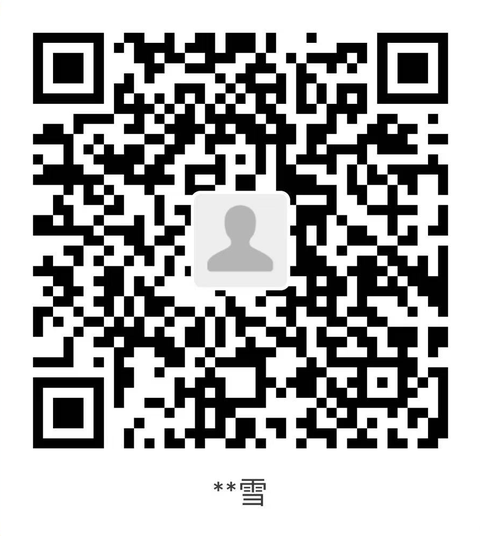
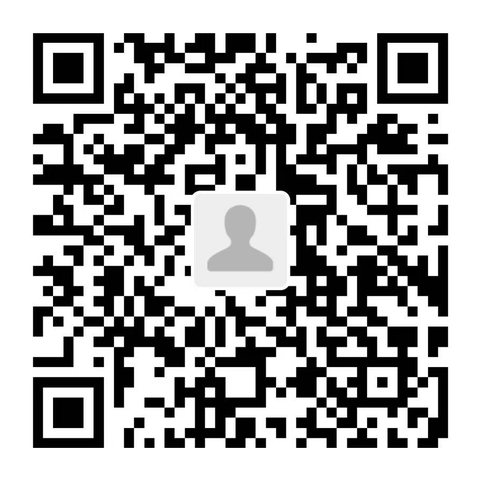
fix: 收款码裁成等边正方形（两张视觉尺寸一致 + 补足扫码静区）

diff --git a/tools/check_pay.js b/tools/check_pay.js
@@ -65,6 +65,18 @@ const ok = (cond, label, extra) => {
   console.log('  文件大小：', sizes.map((n, i) => srcs[i].split('/').pop() + '=' + Math.round(n / 1024) + 'KB').join(' '));
   ok(sizes.every(n => n > 8000), '图片不是占位空文件（>8KB）');
 
+  // 两张二维码图必须是同尺寸的等边正方形。
+  // 否则 img 的 CSS 宽度一样，二维码本体在视觉上却一个大一个小（踩过一次：
+  // 微信白卡留白比支付宝多，按白卡裁出来的图并排摆着明显不齐）。
+  const pngSize = f => {
+    const b = fs.readFileSync(path.join(ROOT, f));
+    return { w: b.readUInt32BE(16), h: b.readUInt32BE(20) };
+  };
+  const dims = srcs.map(pngSize);
+  console.log('  像素尺寸：', dims.map((d, i) => srcs[i].split('/').pop() + '=' + d.w + '×' + d.h).join(' '));
+  ok(dims.every(d => d.w === d.h), '两张码都是正方形');
+  ok(dims.every(d => d.w === dims[0].w), '两张码像素尺寸相同');
+
   // 结构：hero 有徽标和标题，两张卡各有一个品牌胶囊 + 桌面/手机两条提示
   ok(!!doc.querySelector('.pay-hero .pay-kicker'), 'hero 有「赞赏支持」徽标');
   ok((doc.querySelectorAll('.pay-box .pay-brand').length) === 2, '两张卡都有品牌色胶囊');

diff --git a/tools/crop_pay.py b/tools/crop_pay.py
@@ -13,7 +13,7 @@ import io
 import os
 import sys
 
-from PIL import Image
+from PIL import Image, ImageDraw
 
 SRC = {
     "wechat": r"D:\WeChatData\xwechat_files\wxid_hnyjetk72ryq22_e0f0\temp\RWTemp\2026-11\9e20f478899dc29eb19741386f9343c8\0135cfd17aea217a5b95b0833f3dc2f8.jpg",
@@ -71,6 +71,31 @@ def find_card(im):
     return x0 + pad, y0 + pad, x1 - pad, y1 - pad
 
 
+def dark_box(im, card, ratio=0.25):
+    """在白卡里找出「二维码本体」的外接矩形。
+
+    为什么要单独找：微信和支付宝导出的白卡留白比例不一样（微信的上下留白更宽，
+    底下还多一行昵称），按白卡裁的话两张 fig 显示成同样 250px 宽，二维码本体
+    却一个大一个小。按二维码本体对齐才能视觉一致。
+    昵称文字是深色但笔画只占那一行的 10% 左右，阈值取 0.25 就能滤掉
+    （取 0.15 时微信那行较长的昵称会被算进本体，导致高度多出 60px）。
+    """
+    x0, y0, x1, y1 = card
+    px = im.convert("L").load()
+    rows, cols = [], []
+    for y in range(y0, y1):
+        n = sum(1 for x in range(x0, x1, 2) if px[x, y] < 110)
+        rows.append(n / ((x1 - x0) / 2))
+    for x in range(x0, x1):
+        n = sum(1 for y in range(y0, y1, 2) if px[x, y] < 110)
+        cols.append(n / ((y1 - y0) / 2))
+    ys = [y0 + i for i, v in enumerate(rows) if v >= ratio]
+    xs = [x0 + i for i, v in enumerate(cols) if v >= ratio]
+    if not xs or not ys:
+        return card
+    return xs[0], ys[0], xs[-1] + 1, ys[-1] + 1
+
+
 def main():
     os.makedirs(OUT, exist_ok=True)
     for name, src in SRC.items():
@@ -78,18 +103,33 @@ def main():
             print("缺文件：", src)
             continue
         im = Image.open(src)
-        box = find_card(im)
-        card = im.crop(box).convert("RGB")
-        # 二维码要方正好扫；白卡本身带昵称文字，比正方形略高，保持原比例更自然
-        # 统一缩到宽 480，足够 2x 屏清晰，又不影响体积
-        cw, ch = card.size
-        if cw > 480:
-            card = card.resize((480, round(ch * 480 / cw)), Image.LANCZOS)
+        card = find_card(im)
+        bx0, by0, bx1, by1 = dark_box(im, card)
+
+        # 二维码本体之外的区域（底部的昵称文字）先涂白。
+        # 不涂的话，正方形往下多留的那几十像素静区会把昵称顶部切一条黑边进来，
+        # 在页面白底上看着像脏污。
+        clean = im.convert("RGB")
+        draw = ImageDraw.Draw(clean)
+        draw.rectangle([card[0], card[1], card[2], by0], fill=(255, 255, 255))
+        draw.rectangle([card[0], by1, card[2], card[3]], fill=(255, 255, 255))
+
+        # 以二维码本体为中心裁正方形，四周各留 11% 静区。
+        # QR 规范要求 4 个模块宽的静区：348px 宽的码约 45 模块 → 每模块 7.7px，
+        # 4 模块 = 31px，所以每边留白必须 > 31px，1.22 倍对应 38px，够。
+        side = max(bx1 - bx0, by1 - by0) * 1.22
+        side = min(side, card[2] - card[0], card[3] - card[1])
+        cx, cy = (bx0 + bx1) / 2, (by0 + by1) / 2
+        sx = max(card[0], min(int(round(cx - side / 2)), card[2] - int(side)))
+        sy = max(card[1], min(int(round(cy - side / 2)), card[3] - int(side)))
+
+        out = clean.crop((sx, sy, sx + int(side), sy + int(side)))
+        out = out.resize((480, 480), Image.LANCZOS)
         dst = os.path.join(OUT, name + ".png")
-        card.save(dst, "PNG", optimize=True)
-        print("%-7s 原图 %s → 裁切 %s → 输出 %s  %d KB"
-              % (name, im.size, (box[2] - box[0], box[3] - box[1]),
-                 card.size, os.path.getsize(dst) // 1024))
+        out.save(dst, "PNG", optimize=True)
+        print("%-7s 原图 %s → 二维码本体 %s → 方形裁切 %s → 480×480  %d KB"
+              % (name, im.size, (bx1 - bx0, by1 - by0),
+                 (int(side), int(side)), os.path.getsize(dst) // 1024))
 
 
 if __name__ == "__main__":
